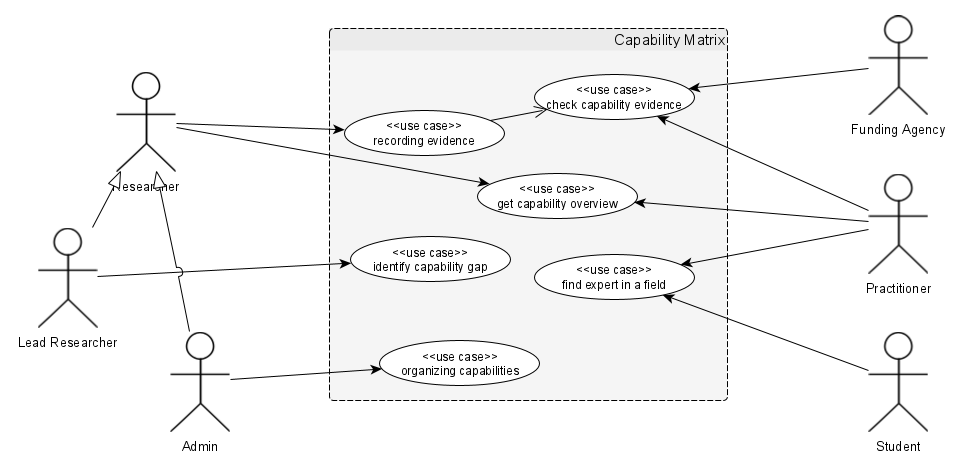
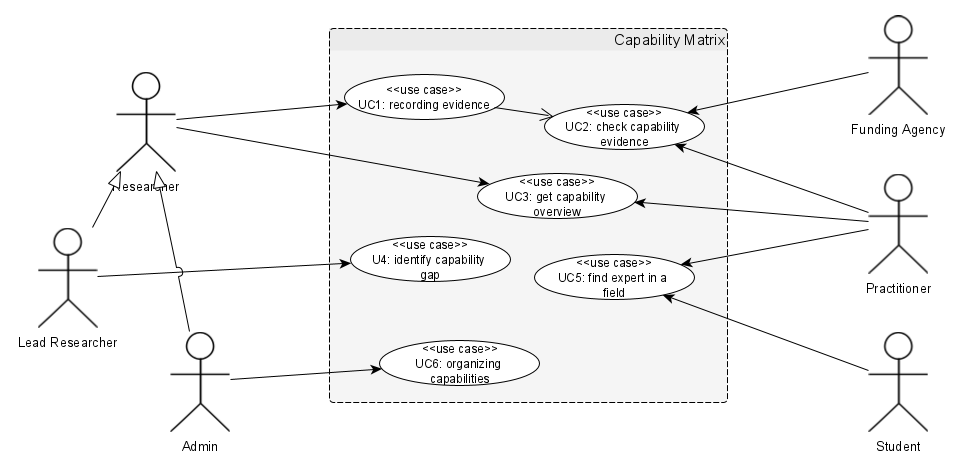
Added mapping between use cases and goals

diff --git a/docs/requirements-specification.md b/docs/requirements-specification.md
@@ -7,3 +7,18 @@ _The requirements specification comprehends the requirements on the system under
 _The system vision comprehends the system context of the system under consideration, which is intended to realise a number of features. A feature is a prominent or distinctive user-recognisable aspect, quality, or characteristic of a system. In addition, we specify an use case overview, i.e. a (potentially) graphical overview of the use cases._
 
 ![System vision of the Capability Matrix](./../figures/system-vision.png)
+
+### Mapping
+
+The use cases fulfill the goals in the following way:
+
+| UC | Fulfilled Goals |
+|---|---|
+| UC1 | G3 |
+| UC2 | G7 |
+| UC3 | G1, G5, G6, G9 |
+| UC4 | G2 |
+| UC5 | G4, G8 |
+| UC6 | |
+
+The goals G10-G12 are currently not addressed by any use case.
